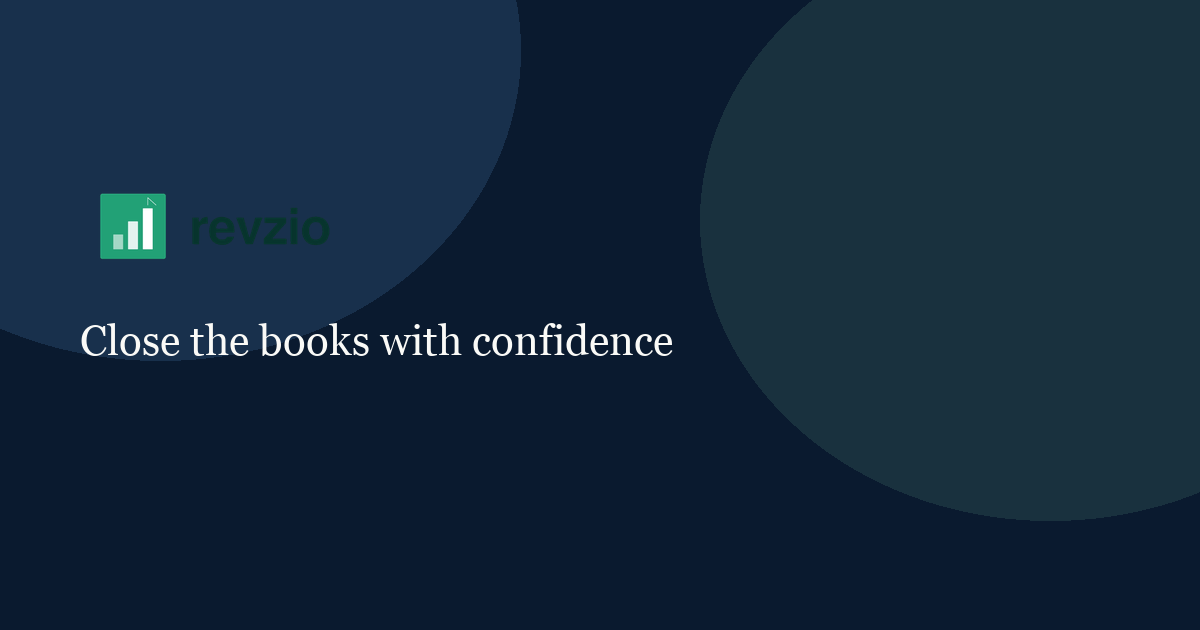
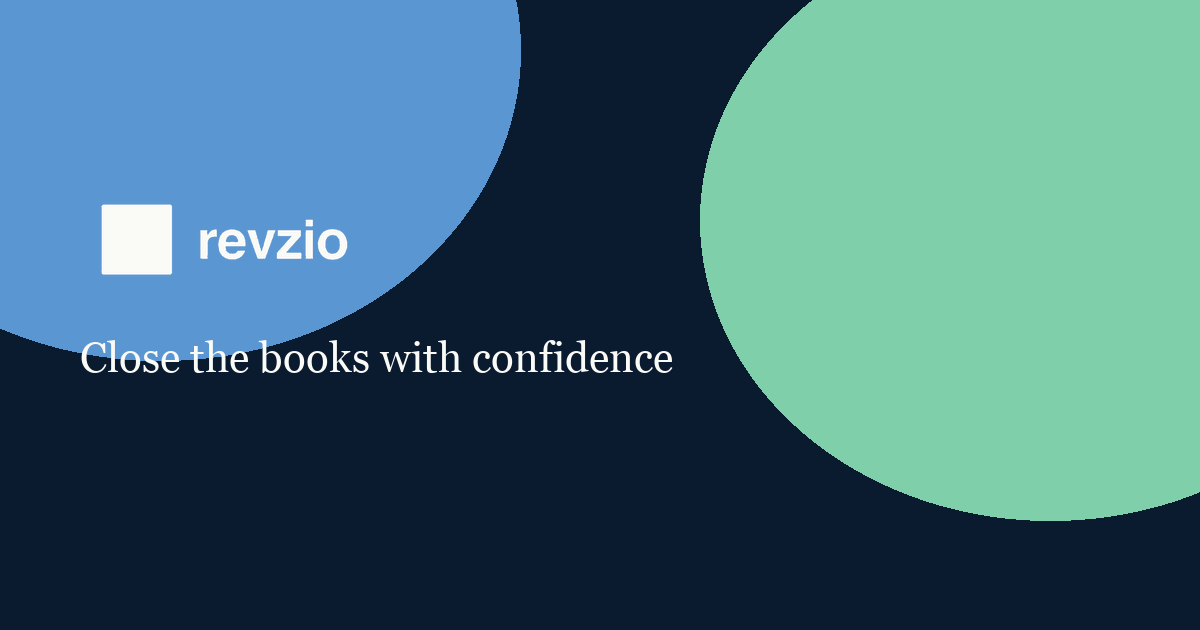
Fix blog title truncation and regenerate a readable OG image.
Use full post headlines (drop the brand suffix only when over length) and paint the default OG wordmark white on navy.

diff --git a/blog/reconciliation-agent-deep-dive.html b/blog/reconciliation-agent-deep-dive.html
@@ -4,16 +4,16 @@
   <script src="/js/analytics.js"></script>
 <meta charset="UTF-8" />
   <meta name="viewport" content="width=device-width, initial-scale=1.0" />
-<title>How Orion's Reconciliation Agent closed 95% of ite… | Revzio</title>
+<title>How Orion's Reconciliation Agent closed 95% of items without human touch</title>
 <meta name="description" content="A deep dive into Orion’s Reconciliation Agent — how high auto-match rates happen, when humans step in, and what audit trail evidence looks like.">
 <link rel="canonical" href="https://www.revzio.ai/blog/reconciliation-agent-deep-dive">
-<meta property="og:title" content="How Orion's Reconciliation Agent closed 95% of ite… | Revzio">
+<meta property="og:title" content="How Orion's Reconciliation Agent closed 95% of items without human touch">
 <meta property="og:description" content="A deep dive into Orion’s Reconciliation Agent — how high auto-match rates happen, when humans step in, and what audit trail evidence looks like.">
 <meta property="og:url" content="https://www.revzio.ai/blog/reconciliation-agent-deep-dive">
 <meta property="og:type" content="article">
 <meta property="og:image" content="https://www.revzio.ai/assets/og-default.png">
 <meta name="twitter:card" content="summary_large_image">
-<meta name="twitter:title" content="How Orion's Reconciliation Agent closed 95% of ite… | Revzio">
+<meta name="twitter:title" content="How Orion's Reconciliation Agent closed 95% of items without human touch">
 <meta name="twitter:description" content="A deep dive into Orion’s Reconciliation Agent — how high auto-match rates happen, when humans step in, and what audit trail evidence looks like.">
 <meta name="twitter:image" content="https://www.revzio.ai/assets/og-default.png">
 <script type="application/ld+json">{"@context":"https://schema.org","@type":"BlogPosting","headline":"How Orion's Reconciliation Agent closed 95% of items without human touch","description":"A deep dive into Orion\u2019s Reconciliation Agent \u2014 how high auto-match rates happen, when humans step in, and what audit trail evidence looks like.","datePublished":"2026-05-01","author":{"@type":"Organization","name":"Revzio Team"},"publisher":{"@type":"Organization","name":"Revzio","legalName":"Revzio Pte. Ltd.","logo":{"@type":"ImageObject","url":"https://www.revzio.ai/assets/logos/revzio-logo.png"}},"mainEntityOfPage":{"@type":"WebPage","@id":"https://www.revzio.ai/blog/reconciliation-agent-deep-dive"},"image":"https://www.revzio.ai/assets/og-default.png","url":"https://www.revzio.ai/blog/reconciliation-agent-deep-dive"}</script>

diff --git a/blog/manual-recon-cost.html b/blog/manual-recon-cost.html
@@ -4,16 +4,16 @@
   <script src="/js/analytics.js"></script>
 <meta charset="UTF-8" />
   <meta name="viewport" content="width=device-width, initial-scale=1.0" />
-<title>The hidden cost of manual reconciliation — and how… | Revzio</title>
+<title>The hidden cost of manual reconciliation — and how to calculate yours</title>
 <meta name="description" content="Calculate the hidden cost of manual reconciliation — time, errors, and delayed close — and see how automation changes the economics for finance teams.">
 <link rel="canonical" href="https://www.revzio.ai/blog/manual-recon-cost">
-<meta property="og:title" content="The hidden cost of manual reconciliation — and how… | Revzio">
+<meta property="og:title" content="The hidden cost of manual reconciliation — and how to calculate yours">
 <meta property="og:description" content="Calculate the hidden cost of manual reconciliation — time, errors, and delayed close — and see how automation changes the economics for finance teams.">
 <meta property="og:url" content="https://www.revzio.ai/blog/manual-recon-cost">
 <meta property="og:type" content="article">
 <meta property="og:image" content="https://www.revzio.ai/assets/og-default.png">
 <meta name="twitter:card" content="summary_large_image">
-<meta name="twitter:title" content="The hidden cost of manual reconciliation — and how… | Revzio">
+<meta name="twitter:title" content="The hidden cost of manual reconciliation — and how to calculate yours">
 <meta name="twitter:description" content="Calculate the hidden cost of manual reconciliation — time, errors, and delayed close — and see how automation changes the economics for finance teams.">
 <meta name="twitter:image" content="https://www.revzio.ai/assets/og-default.png">
 <script type="application/ld+json">{"@context":"https://schema.org","@type":"BlogPosting","headline":"The hidden cost of manual reconciliation \u2014 and how to calculate yours","description":"Calculate the hidden cost of manual reconciliation \u2014 time, errors, and delayed close \u2014 and see how automation changes the economics for finance teams.","datePublished":"2026-05-01","author":{"@type":"Organization","name":"Revzio Team"},"publisher":{"@type":"Organization","name":"Revzio","legalName":"Revzio Pte. Ltd.","logo":{"@type":"ImageObject","url":"https://www.revzio.ai/assets/logos/revzio-logo.png"}},"mainEntityOfPage":{"@type":"WebPage","@id":"https://www.revzio.ai/blog/manual-recon-cost"},"image":"https://www.revzio.ai/assets/og-default.png","url":"https://www.revzio.ai/blog/manual-recon-cost"}</script>

diff --git a/blog/revenue-recognition-scale.html b/blog/revenue-recognition-scale.html
@@ -4,16 +4,16 @@
   <script src="/js/analytics.js"></script>
 <meta charset="UTF-8" />
   <meta name="viewport" content="width=device-width, initial-scale=1.0" />
-<title>Revenue recognition at scale: why spreadsheets bre… | Revzio</title>
+<title>Revenue recognition at scale: why spreadsheets break at Series B</title>
 <meta name="description" content="Why revenue recognition spreadsheets break at Series B — and how scalable processes and AI validation keep SaaS finance teams close-ready as they grow.">
 <link rel="canonical" href="https://www.revzio.ai/blog/revenue-recognition-scale">
-<meta property="og:title" content="Revenue recognition at scale: why spreadsheets bre… | Revzio">
+<meta property="og:title" content="Revenue recognition at scale: why spreadsheets break at Series B">
 <meta property="og:description" content="Why revenue recognition spreadsheets break at Series B — and how scalable processes and AI validation keep SaaS finance teams close-ready as they grow.">
 <meta property="og:url" content="https://www.revzio.ai/blog/revenue-recognition-scale">
 <meta property="og:type" content="article">
 <meta property="og:image" content="https://www.revzio.ai/assets/og-default.png">
 <meta name="twitter:card" content="summary_large_image">
-<meta name="twitter:title" content="Revenue recognition at scale: why spreadsheets bre… | Revzio">
+<meta name="twitter:title" content="Revenue recognition at scale: why spreadsheets break at Series B">
 <meta name="twitter:description" content="Why revenue recognition spreadsheets break at Series B — and how scalable processes and AI validation keep SaaS finance teams close-ready as they grow.">
 <meta name="twitter:image" content="https://www.revzio.ai/assets/og-default.png">
 <script type="application/ld+json">{"@context":"https://schema.org","@type":"BlogPosting","headline":"Revenue recognition at scale: why spreadsheets break at Series B","description":"Why revenue recognition spreadsheets break at Series B \u2014 and how scalable processes and AI validation keep SaaS finance teams close-ready as they grow.","datePublished":"2026-05-01","author":{"@type":"Organization","name":"Revzio Team"},"publisher":{"@type":"Organization","name":"Revzio","legalName":"Revzio Pte. Ltd.","logo":{"@type":"ImageObject","url":"https://www.revzio.ai/assets/logos/revzio-logo.png"}},"mainEntityOfPage":{"@type":"WebPage","@id":"https://www.revzio.ai/blog/revenue-recognition-scale"},"image":"https://www.revzio.ai/assets/og-default.png","url":"https://www.revzio.ai/blog/revenue-recognition-scale"}</script>

diff --git a/blog/human-in-the-loop-finance.html b/blog/human-in-the-loop-finance.html
@@ -4,16 +4,16 @@
   <script src="/js/analytics.js"></script>
 <meta charset="UTF-8" />
   <meta name="viewport" content="width=device-width, initial-scale=1.0" />
-<title>What 'human-in-the-loop' actually means for financ… | Revzio</title>
+<title>What 'human-in-the-loop' actually means for finance teams</title>
 <meta name="description" content="What human-in-the-loop really means for finance teams using AI — approvals, materiality thresholds, and keeping controllers in control of the close.">
 <link rel="canonical" href="https://www.revzio.ai/blog/human-in-the-loop-finance">
-<meta property="og:title" content="What 'human-in-the-loop' actually means for financ… | Revzio">
+<meta property="og:title" content="What 'human-in-the-loop' actually means for finance teams">
 <meta property="og:description" content="What human-in-the-loop really means for finance teams using AI — approvals, materiality thresholds, and keeping controllers in control of the close.">
 <meta property="og:url" content="https://www.revzio.ai/blog/human-in-the-loop-finance">
 <meta property="og:type" content="article">
 <meta property="og:image" content="https://www.revzio.ai/assets/og-default.png">
 <meta name="twitter:card" content="summary_large_image">
-<meta name="twitter:title" content="What 'human-in-the-loop' actually means for financ… | Revzio">
+<meta name="twitter:title" content="What 'human-in-the-loop' actually means for finance teams">
 <meta name="twitter:description" content="What human-in-the-loop really means for finance teams using AI — approvals, materiality thresholds, and keeping controllers in control of the close.">
 <meta name="twitter:image" content="https://www.revzio.ai/assets/og-default.png">
 <script type="application/ld+json">{"@context":"https://schema.org","@type":"BlogPosting","headline":"What 'human-in-the-loop' actually means for finance teams","description":"What human-in-the-loop really means for finance teams using AI \u2014 approvals, materiality thresholds, and keeping controllers in control of the close.","datePublished":"2026-05-01","author":{"@type":"Organization","name":"Revzio Team"},"publisher":{"@type":"Organization","name":"Revzio","legalName":"Revzio Pte. Ltd.","logo":{"@type":"ImageObject","url":"https://www.revzio.ai/assets/logos/revzio-logo.png"}},"mainEntityOfPage":{"@type":"WebPage","@id":"https://www.revzio.ai/blog/human-in-the-loop-finance"},"image":"https://www.revzio.ai/assets/og-default.png","url":"https://www.revzio.ai/blog/human-in-the-loop-finance"}</script>

diff --git a/blog/continuous-close-readiness.html b/blog/continuous-close-readiness.html
@@ -4,16 +4,16 @@
 <script src="/js/analytics.js"></script>
 <meta charset="UTF-8" />
 <meta name="viewport" content="width=device-width, initial-scale=1.0" />
-<title>Why periodic reconciliation is costing you days ev… | Revzio</title>
+<title>Why periodic reconciliation is costing you days every month</title>
 <meta name="description" content="Why periodic reconciliation costs days every month — and how continuous close readiness helps finance teams stop starting from zero at month-end.">
 <link rel="canonical" href="https://www.revzio.ai/blog/continuous-close-readiness">
-<meta property="og:title" content="Why periodic reconciliation is costing you days ev… | Revzio">
+<meta property="og:title" content="Why periodic reconciliation is costing you days every month">
 <meta property="og:description" content="Why periodic reconciliation costs days every month — and how continuous close readiness helps finance teams stop starting from zero at month-end.">
 <meta property="og:url" content="https://www.revzio.ai/blog/continuous-close-readiness">
 <meta property="og:type" content="article">
 <meta property="og:image" content="https://www.revzio.ai/assets/og-default.png">
 <meta name="twitter:card" content="summary_large_image">
-<meta name="twitter:title" content="Why periodic reconciliation is costing you days ev… | Revzio">
+<meta name="twitter:title" content="Why periodic reconciliation is costing you days every month">
 <meta name="twitter:description" content="Why periodic reconciliation costs days every month — and how continuous close readiness helps finance teams stop starting from zero at month-end.">
 <meta name="twitter:image" content="https://www.revzio.ai/assets/og-default.png">
 <script type="application/ld+json">{"@context":"https://schema.org","@type":"BlogPosting","headline":"Why periodic reconciliation is costing you days every month","description":"Why periodic reconciliation costs days every month \u2014 and how continuous close readiness helps finance teams stop starting from zero at month-end.","datePublished":"2026-05-01","author":{"@type":"Organization","name":"Revzio Team"},"publisher":{"@type":"Organization","name":"Revzio","legalName":"Revzio Pte. Ltd.","logo":{"@type":"ImageObject","url":"https://www.revzio.ai/assets/logos/revzio-logo.png"}},"mainEntityOfPage":{"@type":"WebPage","@id":"https://www.revzio.ai/blog/continuous-close-readiness"},"image":"https://www.revzio.ai/assets/og-default.png","url":"https://www.revzio.ai/blog/continuous-close-readiness"}</script>

diff --git a/blog/3-week-onboarding.html b/blog/3-week-onboarding.html
@@ -4,16 +4,16 @@
   <script src="/js/analytics.js"></script>
 <meta charset="UTF-8" />
   <meta name="viewport" content="width=device-width, initial-scale=1.0" />
-<title>3 weeks to go-live: how Revzio onboards finance te… | Revzio</title>
+<title>3 weeks to go-live: how Revzio onboards finance teams | Revzio</title>
 <meta name="description" content="How Revzio onboards finance teams in about three weeks — connect sources, configure Orion agents, and move from spreadsheet close to continuous prep.">
 <link rel="canonical" href="https://www.revzio.ai/blog/3-week-onboarding">
-<meta property="og:title" content="3 weeks to go-live: how Revzio onboards finance te… | Revzio">
+<meta property="og:title" content="3 weeks to go-live: how Revzio onboards finance teams | Revzio">
 <meta property="og:description" content="How Revzio onboards finance teams in about three weeks — connect sources, configure Orion agents, and move from spreadsheet close to continuous prep.">
 <meta property="og:url" content="https://www.revzio.ai/blog/3-week-onboarding">
 <meta property="og:type" content="article">
 <meta property="og:image" content="https://www.revzio.ai/assets/og-default.png">
 <meta name="twitter:card" content="summary_large_image">
-<meta name="twitter:title" content="3 weeks to go-live: how Revzio onboards finance te… | Revzio">
+<meta name="twitter:title" content="3 weeks to go-live: how Revzio onboards finance teams | Revzio">
 <meta name="twitter:description" content="How Revzio onboards finance teams in about three weeks — connect sources, configure Orion agents, and move from spreadsheet close to continuous prep.">
 <meta name="twitter:image" content="https://www.revzio.ai/assets/og-default.png">
 <script type="application/ld+json">{"@context":"https://schema.org","@type":"BlogPosting","headline":"3 weeks to go-live: how revzio onboards finance teams","description":"How Revzio onboards finance teams in about three weeks \u2014 connect sources, configure Orion agents, and move from spreadsheet close to continuous prep.","datePublished":"2026-05-01","author":{"@type":"Organization","name":"Revzio Team"},"publisher":{"@type":"Organization","name":"Revzio","legalName":"Revzio Pte. Ltd.","logo":{"@type":"ImageObject","url":"https://www.revzio.ai/assets/logos/revzio-logo.png"}},"mainEntityOfPage":{"@type":"WebPage","@id":"https://www.revzio.ai/blog/3-week-onboarding"},"image":"https://www.revzio.ai/assets/og-default.png","url":"https://www.revzio.ai/blog/3-week-onboarding"}</script>

diff --git a/blog/3-way-match-ai.html b/blog/3-way-match-ai.html
@@ -4,16 +4,16 @@
   <script src="/js/analytics.js"></script>
 <meta charset="UTF-8" />
   <meta name="viewport" content="width=device-width, initial-scale=1.0" />
-<title>3-way match explained: how AI eliminates invoice e… | Revzio</title>
+<title>3-way match explained: how AI eliminates invoice exceptions</title>
 <meta name="description" content="Learn how AI-powered 3-way match clears invoice exceptions faster — PO, receipt, and invoice alignment that reduces AP noise before it hits the close.">
 <link rel="canonical" href="https://www.revzio.ai/blog/3-way-match-ai">
-<meta property="og:title" content="3-way match explained: how AI eliminates invoice e… | Revzio">
+<meta property="og:title" content="3-way match explained: how AI eliminates invoice exceptions">
 <meta property="og:description" content="Learn how AI-powered 3-way match clears invoice exceptions faster — PO, receipt, and invoice alignment that reduces AP noise before it hits the close.">
 <meta property="og:url" content="https://www.revzio.ai/blog/3-way-match-ai">
 <meta property="og:type" content="article">
 <meta property="og:image" content="https://www.revzio.ai/assets/og-default.png">
 <meta name="twitter:card" content="summary_large_image">
-<meta name="twitter:title" content="3-way match explained: how AI eliminates invoice e… | Revzio">
+<meta name="twitter:title" content="3-way match explained: how AI eliminates invoice exceptions">
 <meta name="twitter:description" content="Learn how AI-powered 3-way match clears invoice exceptions faster — PO, receipt, and invoice alignment that reduces AP noise before it hits the close.">
 <meta name="twitter:image" content="https://www.revzio.ai/assets/og-default.png">
 <script type="application/ld+json">{"@context":"https://schema.org","@type":"BlogPosting","headline":"3-way match explained: how AI eliminates invoice exceptions","description":"Learn how AI-powered 3-way match clears invoice exceptions faster \u2014 PO, receipt, and invoice alignment that reduces AP noise before it hits the close.","datePublished":"2026-05-01","author":{"@type":"Organization","name":"Revzio Team"},"publisher":{"@type":"Organization","name":"Revzio","legalName":"Revzio Pte. Ltd.","logo":{"@type":"ImageObject","url":"https://www.revzio.ai/assets/logos/revzio-logo.png"}},"mainEntityOfPage":{"@type":"WebPage","@id":"https://www.revzio.ai/blog/3-way-match-ai"},"image":"https://www.revzio.ai/assets/og-default.png","url":"https://www.revzio.ai/blog/3-way-match-ai"}</script>

diff --git a/scripts/apply_seo.py b/scripts/apply_seo.py
@@ -252,11 +252,21 @@ MONTHS = {
 }
 
 
-def validate(path: str, title: str, desc: str) -> None:
-    if len(title) > 60:
-        raise SystemExit(f"TITLE too long ({len(title)}): {path!r} -> {title!r}")
-    if not title.endswith("| Revzio"):
-        raise SystemExit(f"TITLE must end with | Revzio: {path!r}")
+def validate(path: str, title: str, desc: str, *, blog: bool = False) -> None:
+    if blog:
+        if "…" in title or "..." in title:
+            raise SystemExit(f"TITLE truncated: {path!r} -> {title!r}")
+        if len(title) > 65 and title.endswith("| Revzio"):
+            raise SystemExit(f"TITLE over 65 with suffix: {path!r} -> {title!r}")
+        if len(title) <= 65 and not title.endswith("| Revzio"):
+            # Prefer suffix when it fits
+            if len(f"{title} | Revzio") <= 65:
+                raise SystemExit(f"TITLE missing suffix though it fits: {path!r}")
+    else:
+        if len(title) > 60:
+            raise SystemExit(f"TITLE too long ({len(title)}): {path!r} -> {title!r}")
+        if not title.endswith("| Revzio"):
+            raise SystemExit(f"TITLE must end with | Revzio: {path!r}")
     if "revzio" in title.replace("Revzio", ""):
         raise SystemExit(f"TITLE has lowercase brand: {path!r}")
     if not (140 <= len(desc) <= 160):
@@ -437,17 +447,12 @@ def parse_blog_meta(html: str) -> tuple[str, str, str]:
 
 
 def blog_title(headline: str) -> str:
-    # Prefer full headline if fits, else truncate before | Revzio
-    suffix = " | Revzio"
-    max_core = 60 - len(suffix)
+    """Full headline + ' | Revzio'. If over ~65 chars, drop the suffix instead of truncating."""
     core = re.sub(r"\brevzio\b", "Revzio", headline, flags=re.I)
-    if len(core) > max_core:
-        core = core[: max_core - 1].rstrip(" ,:-") + "…"
-    title = f"{core}{suffix}"
-    if len(title) > 60:
-        core = core[: max_core - 1].rstrip(" ,:-") + "…"
-        title = f"{core}{suffix}"
-    return title
+    with_suffix = f"{core} | Revzio"
+    if len(with_suffix) <= 65:
+        return with_suffix
+    return core
 
 
 def fit_desc(text: str) -> str:
@@ -510,7 +515,7 @@ def process_blog_posts() -> list[str]:
             if len(desc) < 140:
                 desc = fit_desc(desc + " Practical guidance for controllers and CFOs using Revzio.")
             desc = fit_desc(desc)
-        validate(path, title, desc)
+        validate(path, title, desc, blog=True)
         url = canonical_url(path)
         block = seo_block(
             title=title,
